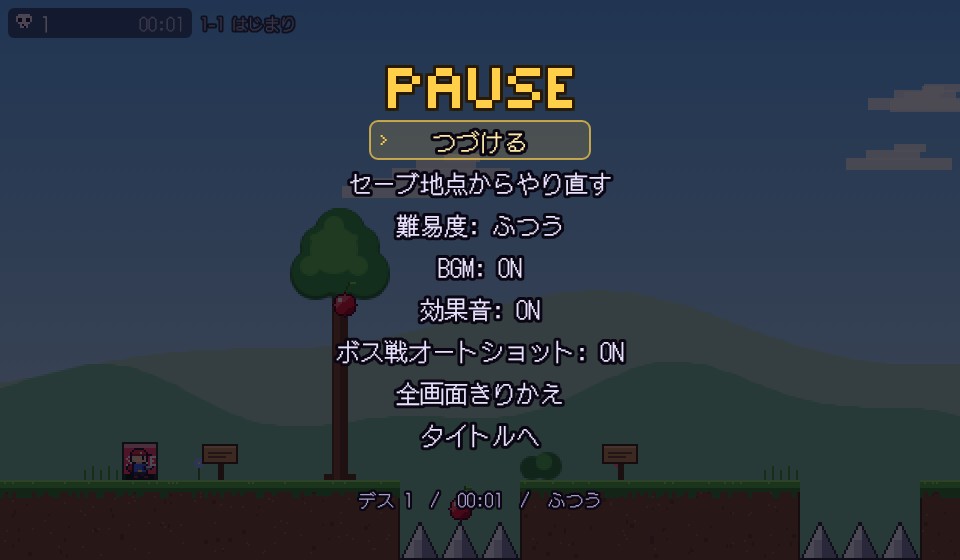
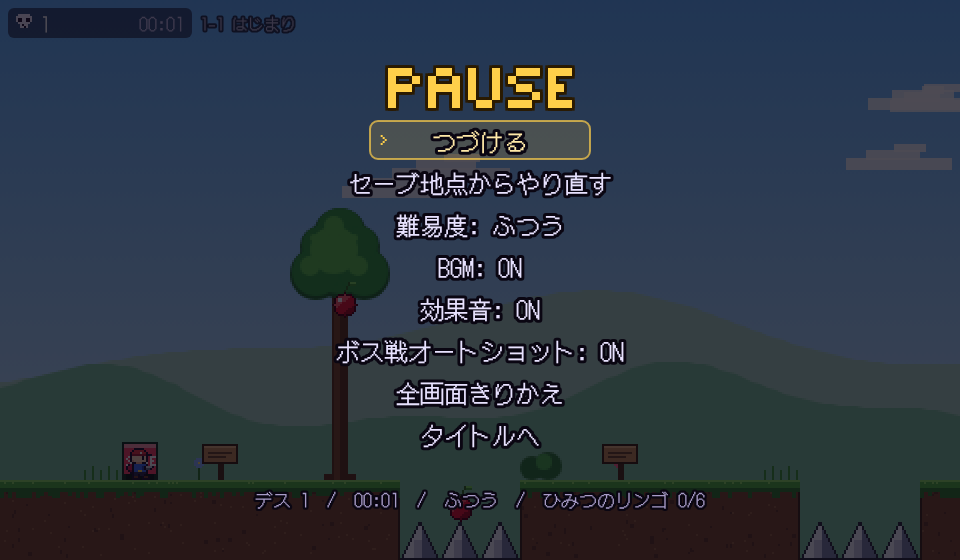
寄り道（6面）：通気口から月の秘密基地へ、新しい仕掛け「酸素メーター」
- 12-2 の宇宙人の足場の通気口から 12-S 月の秘密基地へ
  （酸素メーターとボンベ、月の日記、☾の署名のニセのひみつのリンゴ）
- 12-3 管制官のコーヒー（撃つと床に電気）、12-2 の宇宙人は本当にシビれる
- これで全6ステージにひみつの部屋とひみつのリンゴ（全6個）

Claude-Session: https://claude.ai/code/session_01PWkmujSEt7VifGo2gRATVL

Changed region(s): [[0.25, 0.8804, 0.75, 0.9107]]

diff --git a/js/extras.js b/js/extras.js
@@ -928,4 +928,120 @@
       }, { cond: (P) => P.onGround });
     },
   };
+
+  // =====================================================================
+  // STAGE 6：酸素メーターと、月の秘密基地
+  // =====================================================================
+  // 新しい仕掛け：酸素メーター（空気のない部屋。ボンベで回復、0になると死ぬ）
+  function oxygen(W, frames) {
+    W.vars.o2 = 1;
+    W.vars.o2Rate = 1 / frames;
+    const prev = W.onStep;
+    W.onStep = () => {
+      if (prev) prev();
+      const P = W.player;
+      if (!P.alive || W.vars.o2 == null) return;
+      W.vars.o2 = Math.max(0, W.vars.o2 - W.vars.o2Rate);
+      if (W.vars.o2 < 0.3 && W.time % 30 === 0) G.sfx('warn');
+      if (W.vars.o2 <= 0) W.kill('酸素が切れた。秘密基地に空気はなかった。');
+    };
+  }
+  G.oxygen = oxygen;
+  const o2Tank = (W, cx, cy) =>
+    W.add(
+      new Pickup(W, cx, cy, 'o2', () => {
+        W.vars.o2 = 1;
+        G.sfx('save');
+        W.say('酸素 満タン', cx, cy - 12, 40, { plain: true, size: 9, color: '#9ae8ff' });
+      })
+    );
+
+  // 12-2：宇宙人の足場に通気口（秘密基地へ）。宇宙人はさわるとシビれる（本当にそう言っている）
+  addTo(
+    '12-2',
+    (W) => {
+      W.door(17, 4, { to: '12-S', spawn: [2, 11], label: '通' });
+      const al = W.ents.find((e) => e instanceof G.Npc && e.kind === 'alien');
+      if (al) {
+        al.x = 392 - al.r;
+        al.baseY = al.y;
+        al.hazard = true;
+        al.cause = 'ほんとうにシビれた。（宇宙人はウソをつかない）';
+        W.trigPx(300, 0, 16, 120, () => W.say('サワルト、シビレルヨ。', 0, 0, 90, { follow: al, dy: -4 }));
+      }
+    },
+    { hint: '宇宙人にさわるとシビれる（本当）。宇宙人の足場の通気口は寄り道。' }
+  );
+
+  R['12-S'] = {
+    hint: '酸素はボンベで回復。日記を読みすぎない。「本物」と書いた☾の看板のリンゴは偽物。本物は奥。',
+    area: 12,
+    name: '12-S 月の秘密基地',
+    theme: 'station',
+    bg: 'deduce',
+    exits: {},
+    goal: 'flag',
+    map: [
+      '########################',
+      '########################',
+      '########################',
+      '########################',
+      '#......................#',
+      '#......................#',
+      '#......................#',
+      '#......................#',
+      '#......................#',
+      '#......................#',
+      '#......................#',
+      '#...S..................#',
+      '########################',
+      '########################',
+    ],
+    setup(W) {
+      oxygen(W, 360);
+      W.door(1, 10, { to: '12-2', spawn: [17, 11], label: '↩' });
+      W.sign(6, 11, '月の日記①\nきょうもプレイヤーが\nリンゴで死んだ。たのしい。', { range: 22 });
+      W.sign(9, 11, '月の日記②\nセーブポイントくんと\n作戦会議。', { range: 22 });
+      W.sign(15, 11, '月の日記③\nばれそうになったら\n太陽のせいにしよう。', { range: 22 });
+      o2Tank(W, 230, 228);
+      o2Tank(W, 360, 228);
+      // ニセのひみつのリンゴ（☾の署名）
+      W.sign(12, 11, 'ひみつのリンゴ\n（本物）' + '\n　　　　☾', { range: 22 });
+      const fakeA = W.fruit(274, 230, { kind: 'gold', r: 6, keep: true, cause: 'ニセのひみつのリンゴ。署名を見ればわかったのに。' });
+      fakeA.hazard = false;
+      W.trigPx(268, 220, 14, 20, () => {
+        fakeA.alive = false;
+        W.burst(274, 230, 50, ['#ff5a10', '#ffd84a', '#ffffff'], 3.5, { g: 0.1 });
+        G.sfx('explode');
+        W.kill('ニセのひみつのリンゴ。署名を見ればわかったのに。');
+      });
+      W.secret(440, 226, 6);
+      W.sign(20, 11, '（ここには何もない）', { range: 20 });
+    },
+    drawUI(ctx, W, UI) {
+      if (W.vars.o2 != null) G.Render.drawO2(ctx, W.vars.o2, UI);
+    },
+  };
+
+  // 12-3：管制室のコーヒー（撃つとこぼれて床に電気）
+  addTo(
+    '12-3',
+    (W) => {
+      W.sign(5, 11, '管制官のコーヒー\n（撃たないでね）', { range: 24 });
+      const cup = W.add(new Pickup(W, 130, 232, 'coffee', () => {}));
+      cup.shootable = true;
+      cup.tick = () => {};
+      cup.onShot = () => {
+        cup.alive = false;
+        G.sfx('splat');
+        W.say('バチバチッ', 160, 200, 50, { plain: true, size: 11, color: '#9ae8ff' });
+        W.after(12, () => {
+          W.hbox(0, 230, 300, 10, { kind: 'zap', life: 40, cause: '管制室でコーヒーをこぼしてはいけない。' });
+          G.sfx('laser');
+        });
+        return true;
+      };
+    },
+    { hint: 'コーヒーは撃たない。' }
+  );
 })();

diff --git a/js/ui.js b/js/ui.js
@@ -496,7 +496,7 @@
 
   // ---------------- アップデート履歴 ----------------
   const UPDATES = [
-    ['2026/10/26', '寄り道と追加の罠', ['各ステージに「ひみつの部屋」とひみつのリンゴ（ポーズ画面・エンディングに個数）', '1面：はじまりの部屋の左に、ひみつの花畑（ミミック宝箱）', '1面：ヘルメット、ジャンプ禁止の下のミミック', '2面：ピラミッドの壁のスカラベで、スフィンクスの間へ（なぞなぞ・ファラオの呪い）', '2面：新しい仕掛け「流砂」、祭壇のお供え物', '3面：7-1 の出口の上のワームホールから、ニュートンのリンゴ倉庫へ', '3面：新しい仕掛け「ワームホール」、戻ってくる弾、電池の切れる懐中電灯', '4面：うさぎの足場の上の扉から、うさぎの餅屋（ひみつのリンゴの代金は1デス）', '4面：新しい仕掛け「赤青ブロック」、地球に見とれると人工衛星、無敵モードのスイッチ', '5面：10-4 の風船で右の壁の上のすき間へ、塔の屋根裏（壺とハンマーの忘れ物）', '5面：新しい仕掛け「風船」、割れる風船、カラス']],
+    ['2026/10/26', '寄り道と追加の罠', ['各ステージに「ひみつの部屋」とひみつのリンゴ（ポーズ画面・エンディングに個数）', '1面：はじまりの部屋の左に、ひみつの花畑（ミミック宝箱）', '1面：ヘルメット、ジャンプ禁止の下のミミック', '2面：ピラミッドの壁のスカラベで、スフィンクスの間へ（なぞなぞ・ファラオの呪い）', '2面：新しい仕掛け「流砂」、祭壇のお供え物', '3面：7-1 の出口の上のワームホールから、ニュートンのリンゴ倉庫へ', '3面：新しい仕掛け「ワームホール」、戻ってくる弾、電池の切れる懐中電灯', '4面：うさぎの足場の上の扉から、うさぎの餅屋（ひみつのリンゴの代金は1デス）', '4面：新しい仕掛け「赤青ブロック」、地球に見とれると人工衛星、無敵モードのスイッチ', '5面：10-4 の風船で右の壁の上のすき間へ、塔の屋根裏（壺とハンマーの忘れ物）', '5面：新しい仕掛け「風船」、割れる風船、カラス', '6面：12-2 の宇宙人の足場の通気口から、月の秘密基地（月の日記・ニセのひみつのリンゴ）', '6面：新しい仕掛け「酸素メーター」、管制官のコーヒー、本当にシビれる宇宙人']],
     ['2026/10/25', '6面「宇宙のウソつき」を追加', ['だましの罠をこれまでよりずっと多く（にせのGAME OVER・PAUSE・STAGE CLEARなど）', '「連続プレイヤー殺人事件」：証言とダイイングメッセージから犯人を推理', '犯人を当てると、真犯人との対決とほんとうの結末', 'てっぺんのリンゴのあと、宇宙への扉が開く']],
     ['2026/10/25', '5面「天まで届け」を追加', ['上へ上へと登る塔（全8画面＋てっぺん）', '踏み外すと下の画面まで落ちる', '着地した場所に自動でセーブ。落ちたらそこからやり直し', '4面の結末のあと、月が天への扉を開けてくれる']],
     ['2026/10/25', '不具合の修正', ['9-A2 の戻り扉で扉Bの上に着いてすぐ戻されてしまう問題を修正', 'アップデート履歴をスワイプでスクロールできるように', '5-2 やさしいモードのセーブがヘビのトゲと同じマスで詰む問題を修正', '2-1・6-1 でセーブ直後に罠が動く問題を修正', 'タイトル右上にアップデート履歴を追加']],

diff --git a/js/render3.js b/js/render3.js
@@ -797,4 +797,51 @@
     }
     return baseFruit2 ? baseFruit2(ctx, f) : false;
   };
+
+  // ---------------- 6面の寄り道 ----------------
+  R.drawO2 = function (ctx, o2, UI) {
+    const x = SW / 2 - 60,
+      y = 22;
+    ctx.fillStyle = 'rgba(0,0,0,0.5)';
+    ctx.fillRect(x - 2, y - 2, 124, 10);
+    ctx.fillStyle = o2 < 0.3 ? (Math.floor(Date.now() / 150) % 2 ? '#ff3a5a' : '#ff9aaa') : '#5ad8ff';
+    ctx.fillRect(x, y, Math.round(120 * o2), 6);
+    UI.textOut(ctx, '酸素', x - 16, y + 3, 9, '#9ae8ff', 'center');
+  };
+  const basePickup3 = R.drawPickup;
+  R.drawPickup = function (ctx, p) {
+    const x = Math.round(p.x),
+      y = Math.round(p.y);
+    if (p.kind === 'o2') {
+      ctx.fillStyle = '#5ad8ff';
+      ctx.fillRect(x + 3, y, 8, 14);
+      ctx.fillStyle = '#ffffff';
+      ctx.fillRect(x + 5, y - 2, 4, 3);
+      ctx.fillRect(x + 4, y + 4, 2, 6);
+      G.SPR.tiny(ctx, 'O2', x + 1, y - 9, '#9ae8ff', 1);
+      return;
+    }
+    if (p.kind === 'coffee') {
+      ctx.fillStyle = '#ffffff';
+      ctx.fillRect(x + 3, y + 5, 8, 9);
+      ctx.fillRect(x + 11, y + 7, 2, 4);
+      ctx.fillStyle = '#5a3418';
+      ctx.fillRect(x + 4, y + 6, 6, 2);
+      ctx.fillStyle = 'rgba(255,255,255,0.5)';
+      ctx.fillRect(x + 5, y + 1 - (Math.floor(p.W.time / 10) % 2), 1, 3);
+      return;
+    }
+    basePickup3(ctx, p);
+  };
+  const baseHazard4 = R.drawHazardBox;
+  R.drawHazardBox = function (ctx, h) {
+    if (h.kind === 'zap') {
+      ctx.strokeStyle = h.t % 4 < 2 ? '#9ae8ff' : '#ffffff';
+      ctx.beginPath();
+      for (let x = h.x; x <= h.x + h.w; x += 6) ctx.lineTo(x, h.y + 4 + ((x * 7 + h.t * 3) % 8) - 4);
+      ctx.stroke();
+      return;
+    }
+    baseHazard4(ctx, h);
+  };
 })();

diff --git a/tools/traps.js b/tools/traps.js
@@ -112,6 +112,11 @@ const NAIVE = [
   // 寄り道・追加の罠（5面）
   { id: '10-3', name: 'カラス', enter: { x: 346, y: 106 }, steps: [{ wait: 120 }], goal: 'up', expect: /カラス/ },
   { id: '10-S', name: '屋根裏のネズミ', from: 'S', steps: [{ go: 500 }], expect: /ネズミ/ },
+  // 寄り道・追加の罠（6面）
+  { id: '12-S', name: 'ニセのひみつのリンゴ', from: 'S', steps: [{ go: 500 }], expect: /ニセのひみつのリンゴ/ },
+  { id: '12-S', name: '日記を読みすぎ', from: 'S', steps: [{ go: 180 }, { wait: 400 }], expect: /酸素/ },
+  { id: '12-3', name: '管制官のコーヒー', from: 'S', steps: [{ go: 90 }, { shoot: 4 }, { wait: 60 }], expect: /コーヒー/ },
+  { id: '12-2', name: '宇宙人と握手', enter: { x: 362, y: 106 }, steps: [{ go: 500 }], expect: /シビれた/ },
   // 6面
   { id: '11-1', name: '★1UP（機雷）', from: 'S', steps: [{ go: 500 }], expect: /機雷/ },
   { id: '11-1', name: '背景の星', from: 'S', steps: [{ go: 122 }, { jump: 'R', hold: 16 }, { go: 500 }], expect: /星は背景/ },

diff --git a/tools/secret-test.js b/tools/secret-test.js
@@ -11,12 +11,12 @@ const flagsOf = (W) => (W.game && W.game.flags) || {};
 
 // 入口
 ok(run('1-1', { from: '@', steps: [{ go: -20 }], goal: 'left' }).ok, '1面：はじまりの部屋を左へ → 1-S');
-for (const key of ['5-3 王の墓', '7-1 ワームホール', '9-1 餅屋', '10-4 屋根裏']) {
+for (const key of ['5-3 王の墓', '7-1 ワームホール', '9-1 餅屋', '10-4 屋根裏', '12-2 通気口']) {
   const r = run(S[key].room, S[key], null);
   ok(r.ok, `入口 ${key} → ${r.exit || r.death}`);
 }
 // ひみつのリンゴ
-for (const [id, n] of [['1-S', 1], ['5-S', 2], ['8-S', 3], ['10-S', 5]]) {
+for (const [id, n] of [['1-S', 1], ['5-S', 2], ['8-S', 3], ['10-S', 5], ['12-S', 6]]) {
   let f = {};
   const r = run(id, S[id], null, (W) => (f = flagsOf(W)));
   ok(r.ok && f['secret' + n], `${id}: ひみつのリンゴ ${n} を取って戻れる (${r.exit || r.death})`);

diff --git a/tools/human.js b/tools/human.js
@@ -224,6 +224,22 @@ const S = {
     goal: 'left',
     check: (W) => W.game.flags.secret5,
   },
+  '12-2 通気口': {
+    room: '12-2',
+    enter: { x: 240, y: 186 },
+    steps: [{ jump: 'R', hold: 16, dj: 20, djHold: 14 }, { go: 352 }], // 安全な足場から、宇宙人の足場の通気口へ
+    goal: 'warp:12-S',
+  },
+  '12-S': {
+    from: 'S',
+    steps: [
+      { go: 250 }, { jump: 'R', hold: 14 }, // ☾の「本物」のリンゴは跳び越える
+      { go: 445 }, // 本物のひみつのリンゴ
+      { go: 296 }, { jump: 'L', hold: 14 }, { go: 20 }, // 帰りも跳び越えて、通気口へ
+    ],
+    goal: 'warp:12-2',
+    check: (W) => W.game.flags.secret6,
+  },
   // 6面
   '11-1': {
     from: 'S',

diff --git a/README.md b/README.md
@@ -122,6 +122,7 @@
 | 3 | 8-S ニュートンのリンゴ倉庫（7-1 の出口の上のワームホール） | ワームホール、重力が反転するひみつのリンゴ、戻ってくる弾（8-2）、電池の切れる懐中電灯（7-3） |
 | 4 | 9-S うさぎの餅屋（9-1 のうさぎの足場の上の扉） | 赤青ブロック、代金1デスのひみつのリンゴ、地球に見とれると人工衛星（9-1）、無敵モードのスイッチ（9-A3） |
 | 5 | 10-S 塔の屋根裏（10-4 の風船で右の壁の上のすき間へ） | 風船、割れる「らくらく上昇」の風船（10-6）、カラス（10-3）、屋根裏のネズミ、ふもと行きの非常口 |
+| 6 | 12-S 月の秘密基地（12-2 の宇宙人の足場の通気口） | 酸素メーター、月の日記、☾の署名のニセのひみつのリンゴ、管制官のコーヒー（12-3）、本当にシビれる宇宙人（12-2） |
 
 ## クリア不可能にならないための作り
 
